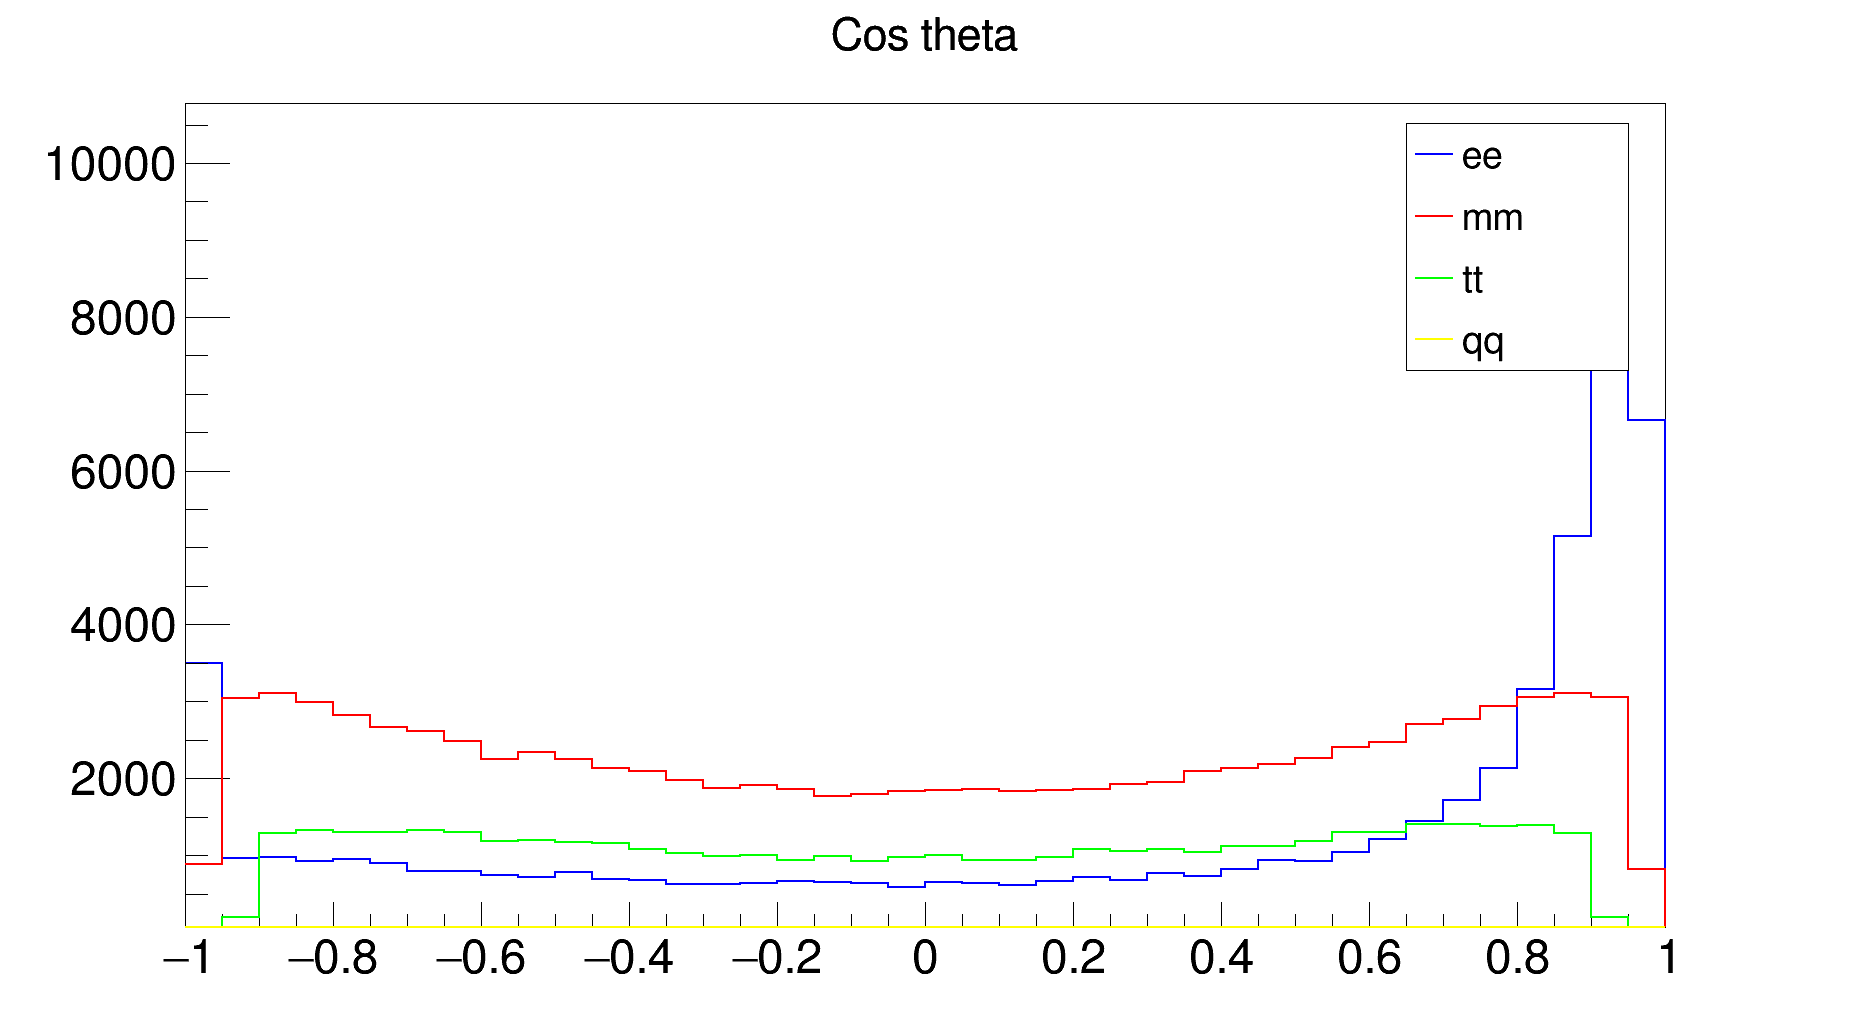
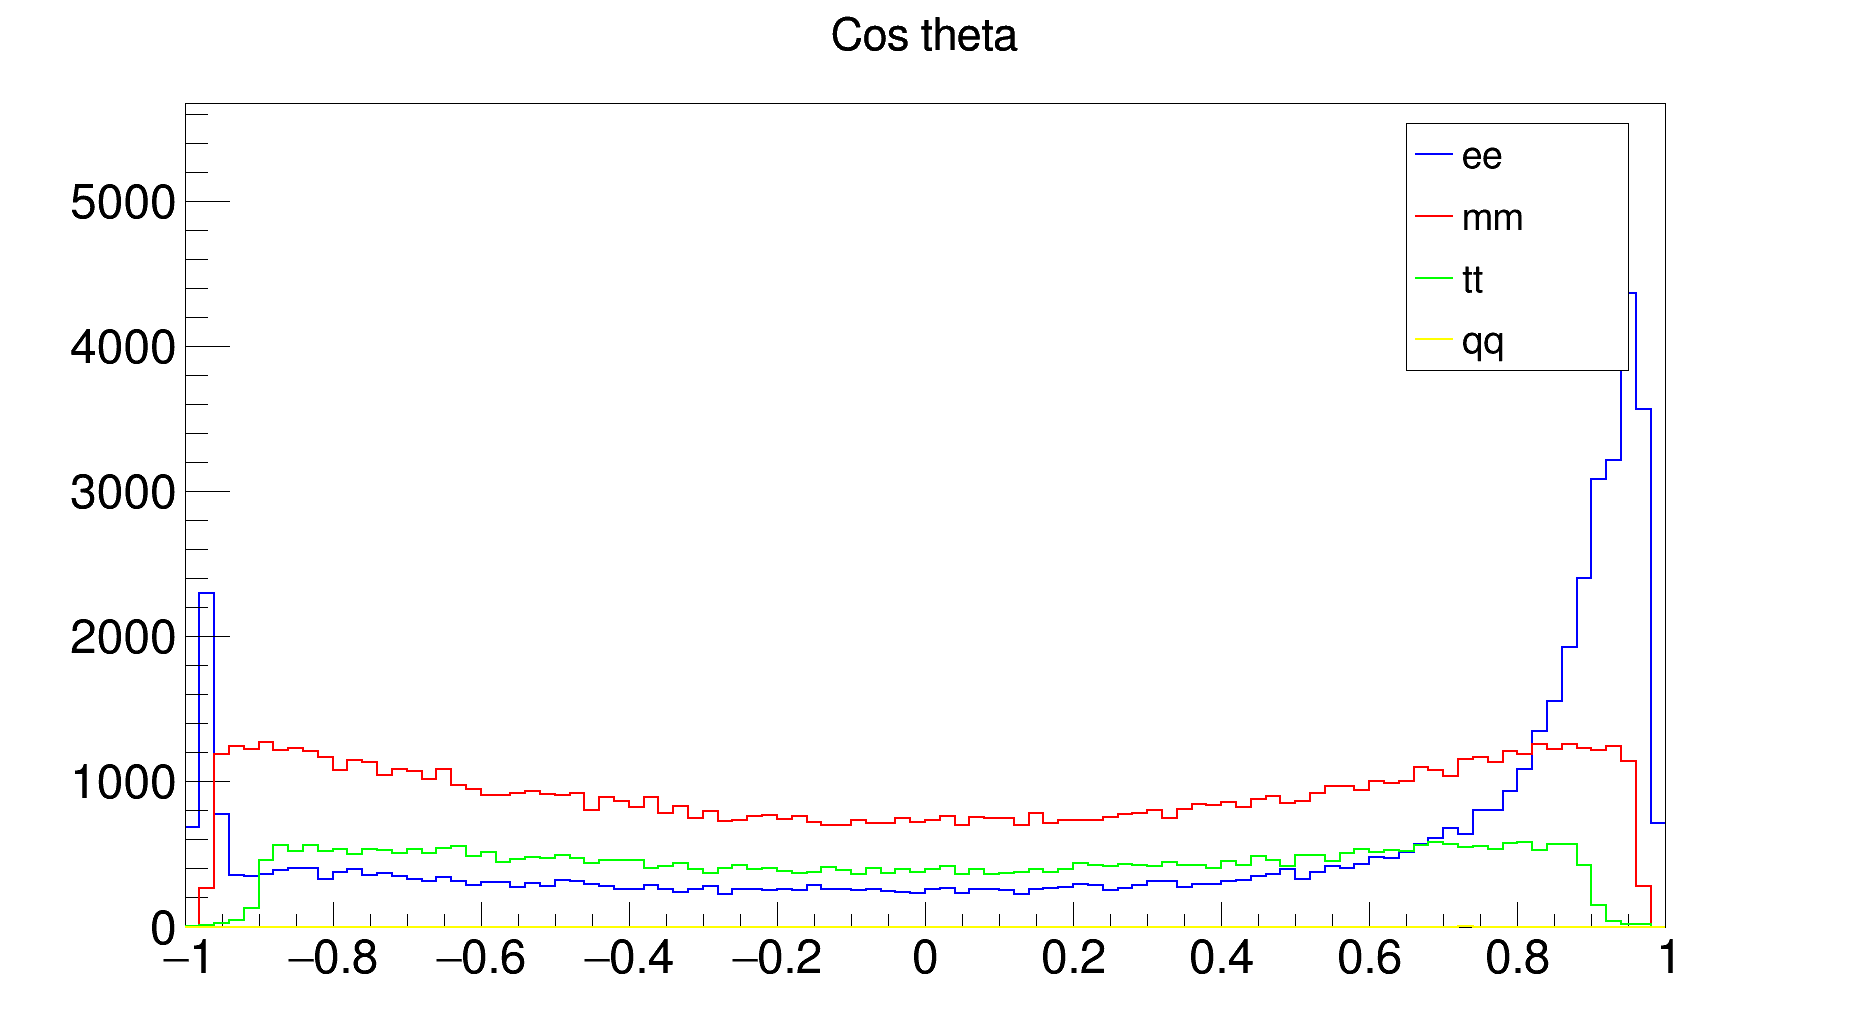
Purities and Efficiencies with final cuts

diff --git a/code/spaghetti.C b/code/spaghetti.C
@@ -41,15 +41,15 @@ spaghetti()
 	for(int isim = 0; isim < n_sim; ++isim) {
 		h_Ncharged[isim] = new TH1F("h_Ncharged_" + name[isim], "Number of tracks", 40, 0., 40.);
 		h_Ncharged[isim]->Sumw2();
-		h_Pcharged[isim] = new TH1F("h_Pcharged_" + name[isim], "Sum of track energies", 60, 0., 120.);
+		h_Pcharged[isim] = new TH1F("h_Pcharged_" + name[isim], "Sum of track energies", 120, 0., 120.);
 		h_Pcharged[isim]->Sumw2();
 		h_E_Ecal[isim] = new TH1F("h_Eecal_" + name[isim], "E_ECal", 60, 0., 120.);
 		h_E_Ecal[isim]->Sumw2();
-		h_E_Hcal[isim] = new TH1F("h_Ehcal_" + name[isim], "E_HCal", 60, 0., 10.);
+		h_E_Hcal[isim] = new TH1F("h_Ehcal_" + name[isim], "E_HCal", 50, 1., 50.);
 		h_E_Hcal[isim]->Sumw2();
 		h_cos_thru[isim] = new TH1F("h_costhru_" + name[isim], "Cos thrust", 40, -1., 1.);
 		h_cos_thru[isim]->Sumw2();
-		h_cos_thet[isim] = new TH1F("h_costhet_" + name[isim], "Cos theta", 40, -1., 1.);
+		h_cos_thet[isim] = new TH1F("h_costhet_" + name[isim], "Cos theta", 100, -1., 1.);
 		h_cos_thet[isim]->Sumw2();
 	}
 
@@ -87,20 +87,21 @@ spaghetti()
 			mc_trees[isim]->SetBranchAddress("cos_thru", &cos_thru);
 			mc_trees[isim]->SetBranchAddress("cos_thet", &cos_theta);
 			const int nevents = mc_trees[isim]->GetEntries();
-			
+//			cout << "number of events for " << name[isim] <<" :" << nevents <<endl;
 
-			//event counters
+			//event counters and efficiency, purity matrix
 			float n_events_cut = 0; //save to variable later
-			float n_events = 0; //save to variable later
+			float n_events_cut_w[4]=; //save to variable later
+			float efficiency[4][4];
+			float purity[4]=;
 
 			//set weights for different decays
-			float weights[n_sim]={1,1,1,1,1};
+			float weights[n_sim]={83.8/2486.2,83.8/2486.2,83.8/2486.2,1732/2486.2};
 
-			std::cout << "Cut: " << i_cr << std::endl;
-			std::cout << "Process: " << name[isim] << std::endl;
+			//std::cout << "Cut: " << i_cr << std::endl;
+			//std::cout << "Process: " << name[isim] << std::endl;
 			//apply the different cuts via switch
 			for(int iev = 0; iev < nevents; ++iev) {
-			
 				mc_trees[isim]->GetEntry(iev);
 				switch (i_cr){
 
@@ -116,7 +117,8 @@ spaghetti()
 					case 1:
 						//ee cuts
 						if (Ncharged < 7 && E_ECal >= 70) {
-							n_events += weights[isim];
+							n_events_cut_w[isim] += weights[isim]/nevents;
+							n_events_cut += 1;
 							h_Ncharged[isim]->Fill(Ncharged);
 							h_Pcharged[isim]->Fill(Pcharged);
 							h_E_Ecal[isim]->Fill(E_ECal);
@@ -127,8 +129,9 @@ spaghetti()
 						break;
 					case 2:
 						//mm cuts
-						if (Pcharged > 70 && E_ECal < 50 && Ncharged < 7) {
-							n_events += weights[isim];
+						if ((Pcharged > 70 || Pcharged ==0) && E_ECal < 50 && Ncharged ==2) {
+							n_events_cut_w[isim] += weights[isim]/nevents;
+							n_events_cut += 1;
 							h_Ncharged[isim]->Fill(Ncharged);
 							h_Pcharged[isim]->Fill(Pcharged);
 							h_E_Ecal[isim]->Fill(E_ECal);
@@ -139,8 +142,10 @@ spaghetti()
 						break;
 					case 3:
 						//tt cuts
-						if (Pcharged <= 70 && Ncharged < 7 && E_ECal < 70) {
-							n_events += weights[isim];
+						if ( Pcharged != 0 && Pcharged <= 70 && Ncharged <7 && E_ECal < 75 && ( (cos_theta > -0.9 && cos_theta < 0.9) || cos_theta > 1) 
+						( cos_thru > -0.9 && cos_thru < 0.9) ) {
+							n_events_cut_w[isim] += weights[isim]/nevents;
+							n_events_cut += 1;
 							h_Ncharged[isim]->Fill(Ncharged);
 							h_Pcharged[isim]->Fill(Pcharged);
 							h_E_Ecal[isim]->Fill(E_ECal);
@@ -151,8 +156,9 @@ spaghetti()
 						break;
 					case 4:
 						//qq cuts
-						if (Ncharged >= 7) {
-							n_events += weights[isim];
+						if (Ncharged >= 8) {
+							n_events_cut_w[isim] += weights[isim]/nevents;
+							n_events_cut += 1;
 							h_Ncharged[isim]->Fill(Ncharged);
 							h_Pcharged[isim]->Fill(Pcharged);
 							h_E_Ecal[isim]->Fill(E_ECal);
@@ -161,11 +167,29 @@ spaghetti()
 							h_cos_thet[isim]->Fill(cos_theta); 
 						}
 						break;
-				}
-			}
+				}//end of switch
+
+				//if no events registered, add one
+				if(n_events_cut == 0) n_events_cut += 1;
+
+			}//end of events loop
+
+		//fill efficiency matrix for all but first cut region (no cut) and last isim (data)
+		if(isim < 4 && i_cr > 0) efficiency[isim][i_cr-1] = n_events_cut/nevents ;
+
+		}//end of isim loop
+
+		//fill purity vector (needs all results of isim, thus after loop)
+		/*if(i_cr > 0)	{
+			purity[i_cr-1] = n_events_cut_w[i_cr-1]/(n_events_cut_w[0] + n_events_cut_w[1] + n_events_cut_w[2] + n_events_cut_w[3]);
 		}
-	
-	
+		*/
+		if(i_cr > 0)	{
+			purity[i_cr-1] = weights[i_cr-1]*efficiency[i_cr-1][i_cr-1]/(weights[0]*efficiency[0][i_cr-1] + weights[1]*efficiency[1][i_cr-1] + 
+					weights[2]*efficiency[2][i_cr-1] + weights[3]*efficiency[3][i_cr-1]);
+		}
+
+/*		
 		TCanvas *c[n_histos];
 		c[0] = new TCanvas("c0", "c0",1920,1080);
 		c[1] = new TCanvas("c1", "c1",1920,1080);
@@ -180,7 +204,7 @@ spaghetti()
 		color[3] = kYellow;
 		color[4] = kBlack;
 	
-	
+
 		float max[n_histos] = {0., 0., 0., 0., 0., 0.};
 		for(int i=0; i<n_sim; ++i) {
 			float act_max = h_Ncharged[i]->GetMaximum();
@@ -289,8 +313,18 @@ spaghetti()
 		c[5]->SaveAs(cutname[i_cr] + "_cos_theta_cut.png");
 		c[5]->Close();
 
-	}
+*/	} //end of cut region loop
+
+	//close opened files
 	for(int iFile = 0; iFile < n_sim; ++iFile) files[iFile]->Close();
 
-std::cout << "after " << std::endl;
+
+	cout << "Efficiency array: \n" << endl;
+	cout << "\t  "<< name[0] <<"\t  "<< name[1] <<"\t  "<< name[2] <<"\t  "<< name[3] <<"\t\t"<< "Purity" 
+		<<"\t"<< "Product" << endl;
+	for (i=0 ; i < 4 ; ++i) {
+		cout << std::fixed << std::setprecision(5) << cutname[i+1] <<"\t"<< efficiency[0][i] <<"\t"
+		<< efficiency[1][i] <<"\t"<< efficiency[2][i] <<"\t"<< efficiency[3][i] <<"\t\t"<< purity[i] 
+		<< "\t"<< efficiency[i][i]*purity[i] << endl; 
+	}
 }	
